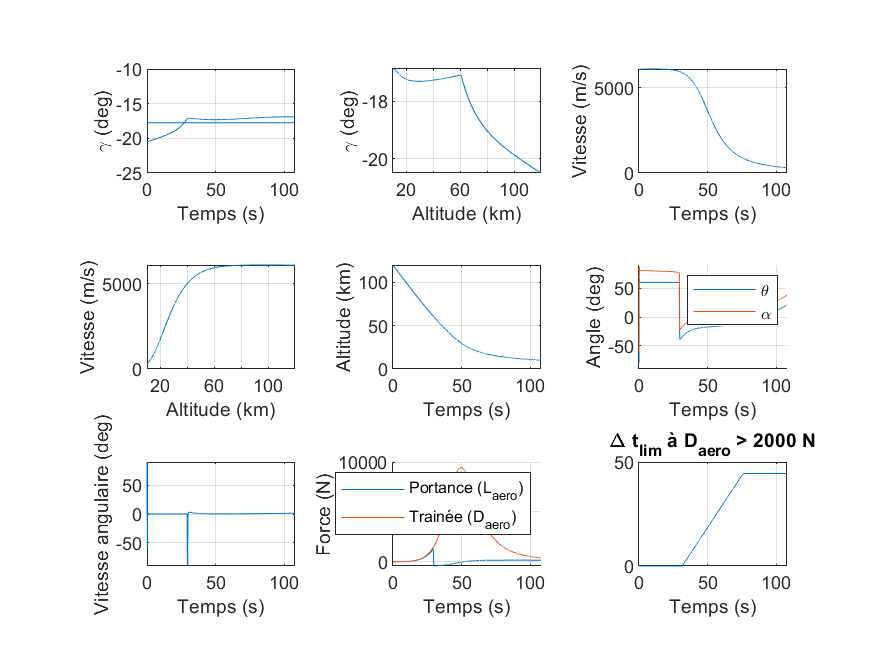
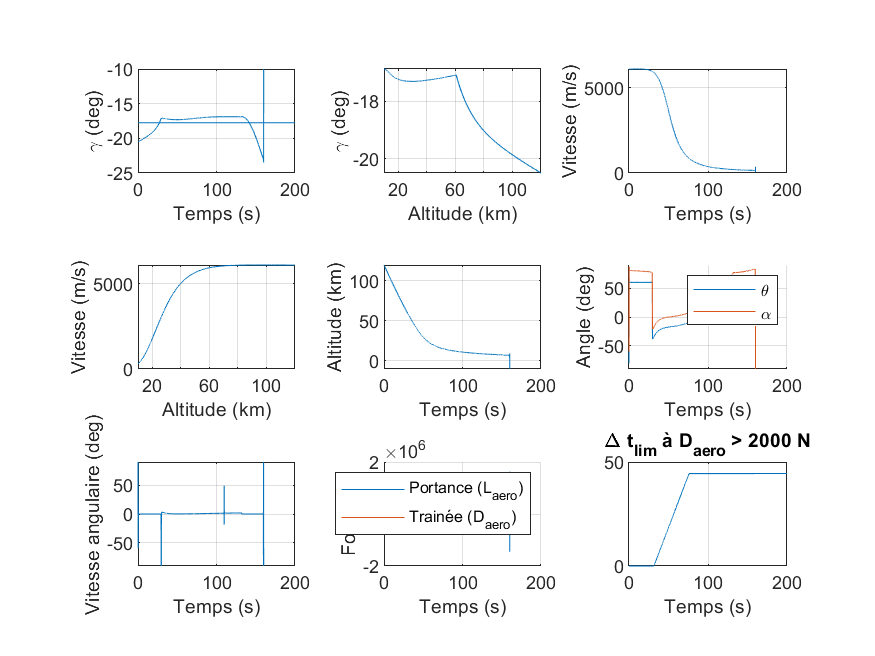
allo hubert

diff --git a/simulateur.m b/simulateur.m
@@ -52,7 +52,7 @@ saveas(gcf, [pwd '\Figures\sim1.png'])
 %% simulation 2
 
 disp('Simulation 2...')
-tspan = [0 108];
+tspan = [0 200];
 [t2 y2] = ode45('funcODE2', tspan, cond_ini);
 
 
@@ -235,3 +235,12 @@ xlim(tspan)
 grid on
 
 saveas(gcf, [pwd '\Figures\sim3.png'])
+
+
+%%
+
+figure
+hold on
+plot(t2,y2(:,8))
+plot(t2,Daero_sim2)
+grid on

diff --git a/app6.m b/app6.m
@@ -21,7 +21,7 @@ p_ini = rho(h_ini);
 RAA = @(v_i, gamma, p) v_i*exp(0.5*B*hs*(p-p_ini)/sin(gamma));
 
 % RAA a angle de -90 pour comparaison avec les russes
-v = RAA(v_ini, -90, p_mes);
+v = RAA(v_ini, -pi/2, p_mes);
 
 
 Pdyn_RAA = 0.5*p_mes.*v.^2;

diff --git a/params.m b/params.m
@@ -28,5 +28,7 @@ r_fin = h_fin + R_mars;
 p0 = 0.0216;
 hs = 1.1004e+04;
 
+
+p_ini = p0*exp(-h_ini/hs);
 p_fin = p0*exp(-h_fin/hs);
 cond_ini = [v_ini gamma_ini h_ini s_ini theta_ini q_ini 0];

diff --git a/funcODE1.m b/funcODE1.m
@@ -3,6 +3,8 @@ function f = funcODE1(t,y)
 % f = dy
 
 params
+
+
 r = R_mars + y(3);
 g = mu_mars/r^2;
 p = p0*exp(-y(3)/hs);
